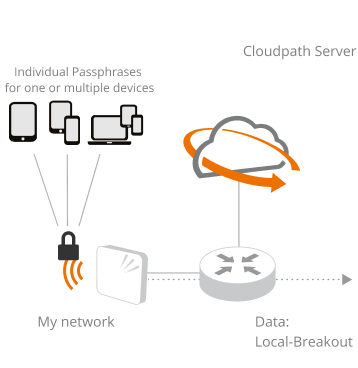
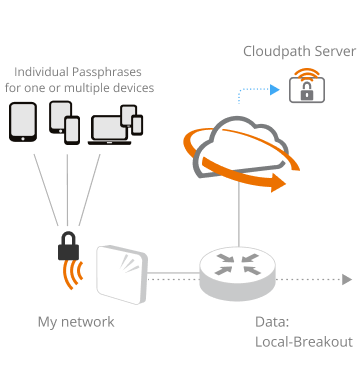
ACX-31663: Non-Proxy mode eDPSK - R1 UI Updates to include NonProxy network image

Changed region(s): [[0.7374, 0.1793, 0.9218, 0.2989]]

diff --git a/apps/rc/src/pages/Networks/wireless/NetworkForm/NetworkDiagram/NetworkDiagram.tsx b/apps/rc/src/pages/Networks/wireless/NetworkForm/NetworkDiagram/NetworkDiagram.tsx
@@ -11,31 +11,31 @@ import {
   NetworkTypeEnum
 } from '@acx-ui/rc/utils'
 
-import AaaCloudpathCloudDiagram      from '../../../../../assets/images/network-wizard-diagrams/aaa-cloudpath-cloud-deployment.png'
-import AaaCloudpathOnPremDiagram     from '../../../../../assets/images/network-wizard-diagrams/aaa-cloudpath-on-prem-deployment.png'
-import AaaProxyDiagram               from '../../../../../assets/images/network-wizard-diagrams/aaa-proxy.png'
-import AaaDiagram                    from '../../../../../assets/images/network-wizard-diagrams/aaa.png'
-import CaptiveCloudpathCloudDiagram  from '../../../../../assets/images/network-wizard-diagrams/captive-portal-cloudpath-cloud-deployment.png'
-import CaptiveCloudpathOnPremDiagram from '../../../../../assets/images/network-wizard-diagrams/captive-portal-cloudpath-on-prem-deployment.png'
-import ClickThroughDiagram           from '../../../../../assets/images/network-wizard-diagrams/click-through.png'
-import DpskCloudpathCloudDiagram     from '../../../../../assets/images/network-wizard-diagrams/dpsk-cloudpath-cloud-deployment.png'
-import DpskCloudpathOnPremDiagram    from '../../../../../assets/images/network-wizard-diagrams/dpsk-cloudpath-on-prem-deployment.png'
-import DpskUsingRadiusDiagram        from '../../../../../assets/images/network-wizard-diagrams/dpsk-using-radius.png'
-import DpskUsingRadiusNonProxyDiagram    from '../../../../../assets/images/network-wizard-diagrams/dpsk-using-radius-non-proxy.png'
-import DpskDiagram                   from '../../../../../assets/images/network-wizard-diagrams/dpsk.png'
-import GuestPassDiagram              from '../../../../../assets/images/network-wizard-diagrams/guest-pass.png'
-import HostApprovalDiagram           from '../../../../../assets/images/network-wizard-diagrams/host-approval.png'
-import DefaultDiagram                from '../../../../../assets/images/network-wizard-diagrams/none.png'
-import OpenCloudpathCloudDiagram     from '../../../../../assets/images/network-wizard-diagrams/open-cloudpath-cloud-deployment.png'
-import OpenCloudpathOnPremDiagram    from '../../../../../assets/images/network-wizard-diagrams/open-cloudpath-on-prem-deployment.png'
-import OpenDiagram                   from '../../../../../assets/images/network-wizard-diagrams/open.png'
-import PskDiagram                    from '../../../../../assets/images/network-wizard-diagrams/psk.png'
-import SelfSignInDiagram             from '../../../../../assets/images/network-wizard-diagrams/self-sign-in.png'
-import WISPrWithPskDiagram           from '../../../../../assets/images/network-wizard-diagrams/wispr-psk.png'
-import WISPrDiagram                  from '../../../../../assets/images/network-wizard-diagrams/wispr.png'
-import { networkTypes }              from '../contentsMap'
-import NetworkFormContext            from '../NetworkFormContext'
-import { Diagram }                   from '../styledComponents'
+import AaaCloudpathCloudDiagram       from '../../../../../assets/images/network-wizard-diagrams/aaa-cloudpath-cloud-deployment.png'
+import AaaCloudpathOnPremDiagram      from '../../../../../assets/images/network-wizard-diagrams/aaa-cloudpath-on-prem-deployment.png'
+import AaaProxyDiagram                from '../../../../../assets/images/network-wizard-diagrams/aaa-proxy.png'
+import AaaDiagram                     from '../../../../../assets/images/network-wizard-diagrams/aaa.png'
+import CaptiveCloudpathCloudDiagram   from '../../../../../assets/images/network-wizard-diagrams/captive-portal-cloudpath-cloud-deployment.png'
+import CaptiveCloudpathOnPremDiagram  from '../../../../../assets/images/network-wizard-diagrams/captive-portal-cloudpath-on-prem-deployment.png'
+import ClickThroughDiagram            from '../../../../../assets/images/network-wizard-diagrams/click-through.png'
+import DpskCloudpathCloudDiagram      from '../../../../../assets/images/network-wizard-diagrams/dpsk-cloudpath-cloud-deployment.png'
+import DpskCloudpathOnPremDiagram     from '../../../../../assets/images/network-wizard-diagrams/dpsk-cloudpath-on-prem-deployment.png'
+import DpskUsingRadiusNonProxyDiagram from '../../../../../assets/images/network-wizard-diagrams/dpsk-using-radius-non-proxy.png'
+import DpskUsingRadiusDiagram         from '../../../../../assets/images/network-wizard-diagrams/dpsk-using-radius.png'
+import DpskDiagram                    from '../../../../../assets/images/network-wizard-diagrams/dpsk.png'
+import GuestPassDiagram               from '../../../../../assets/images/network-wizard-diagrams/guest-pass.png'
+import HostApprovalDiagram            from '../../../../../assets/images/network-wizard-diagrams/host-approval.png'
+import DefaultDiagram                 from '../../../../../assets/images/network-wizard-diagrams/none.png'
+import OpenCloudpathCloudDiagram      from '../../../../../assets/images/network-wizard-diagrams/open-cloudpath-cloud-deployment.png'
+import OpenCloudpathOnPremDiagram     from '../../../../../assets/images/network-wizard-diagrams/open-cloudpath-on-prem-deployment.png'
+import OpenDiagram                    from '../../../../../assets/images/network-wizard-diagrams/open.png'
+import PskDiagram                     from '../../../../../assets/images/network-wizard-diagrams/psk.png'
+import SelfSignInDiagram              from '../../../../../assets/images/network-wizard-diagrams/self-sign-in.png'
+import WISPrWithPskDiagram            from '../../../../../assets/images/network-wizard-diagrams/wispr-psk.png'
+import WISPrDiagram                   from '../../../../../assets/images/network-wizard-diagrams/wispr.png'
+import { networkTypes }               from '../contentsMap'
+import NetworkFormContext             from '../NetworkFormContext'
+import { Diagram }                    from '../styledComponents'
 
 
 interface DiagramProps {
@@ -74,7 +74,7 @@ type NetworkDiagramProps = DefaultDiagramProps
   | CaptivePortalDiagramProps
 
 const CloudpathCloudDiagramMap: Partial<Record<NetworkTypeEnum, string>> = {
-  [NetworkTypeEnum.DPSK]: DpskUsingRadiusDiagram,
+  [NetworkTypeEnum.DPSK]: DpskCloudpathCloudDiagram,
   [NetworkTypeEnum.OPEN]: OpenCloudpathCloudDiagram,
   [NetworkTypeEnum.AAA]: AaaCloudpathCloudDiagram,
   [NetworkTypeEnum.CAPTIVEPORTAL]: CaptiveCloudpathCloudDiagram
@@ -91,7 +91,7 @@ function getDiagram (props: NetworkDiagramProps) {
   let diagram = null
   switch (props.type) {
     case NetworkTypeEnum.DPSK:
-      diagram = getDPSKDiagram(props)
+      diagram = GetDPSKDiagram(props)
       break
     case NetworkTypeEnum.PSK:
       diagram = getPSKDiagram(props)
@@ -118,8 +118,10 @@ function getDiagram (props: NetworkDiagramProps) {
   return diagram
 }
 
-function getDPSKDiagram (props:DpskDiagramProps){
-  return props?.isCloudpathEnabled?DpskUsingRadiusDiagram:DpskDiagram
+function GetDPSKDiagram (props:DpskDiagramProps) {
+  const { data } = useContext(NetworkFormContext)
+  return props?.isCloudpathEnabled ? (!!data?.enableAuthProxy? DpskUsingRadiusDiagram
+    : DpskUsingRadiusNonProxyDiagram) : DpskDiagram
 }
 function getPSKDiagram (props: PskDiagramProps) {
   return props?.enableMACAuth ? AaaDiagram : PskDiagram
